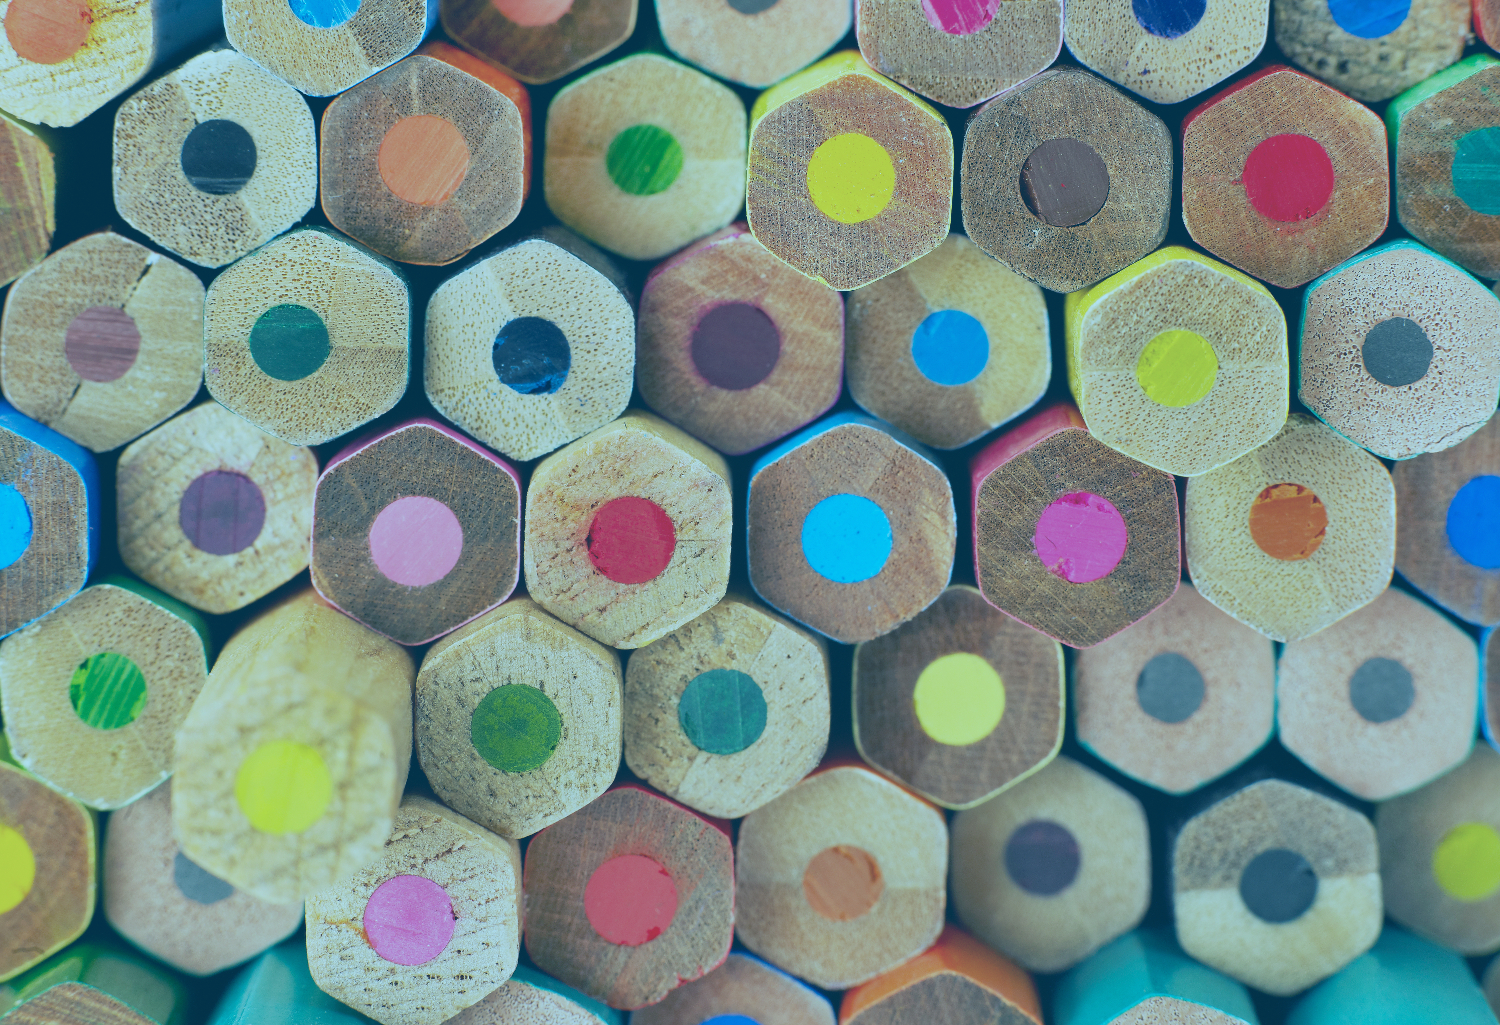
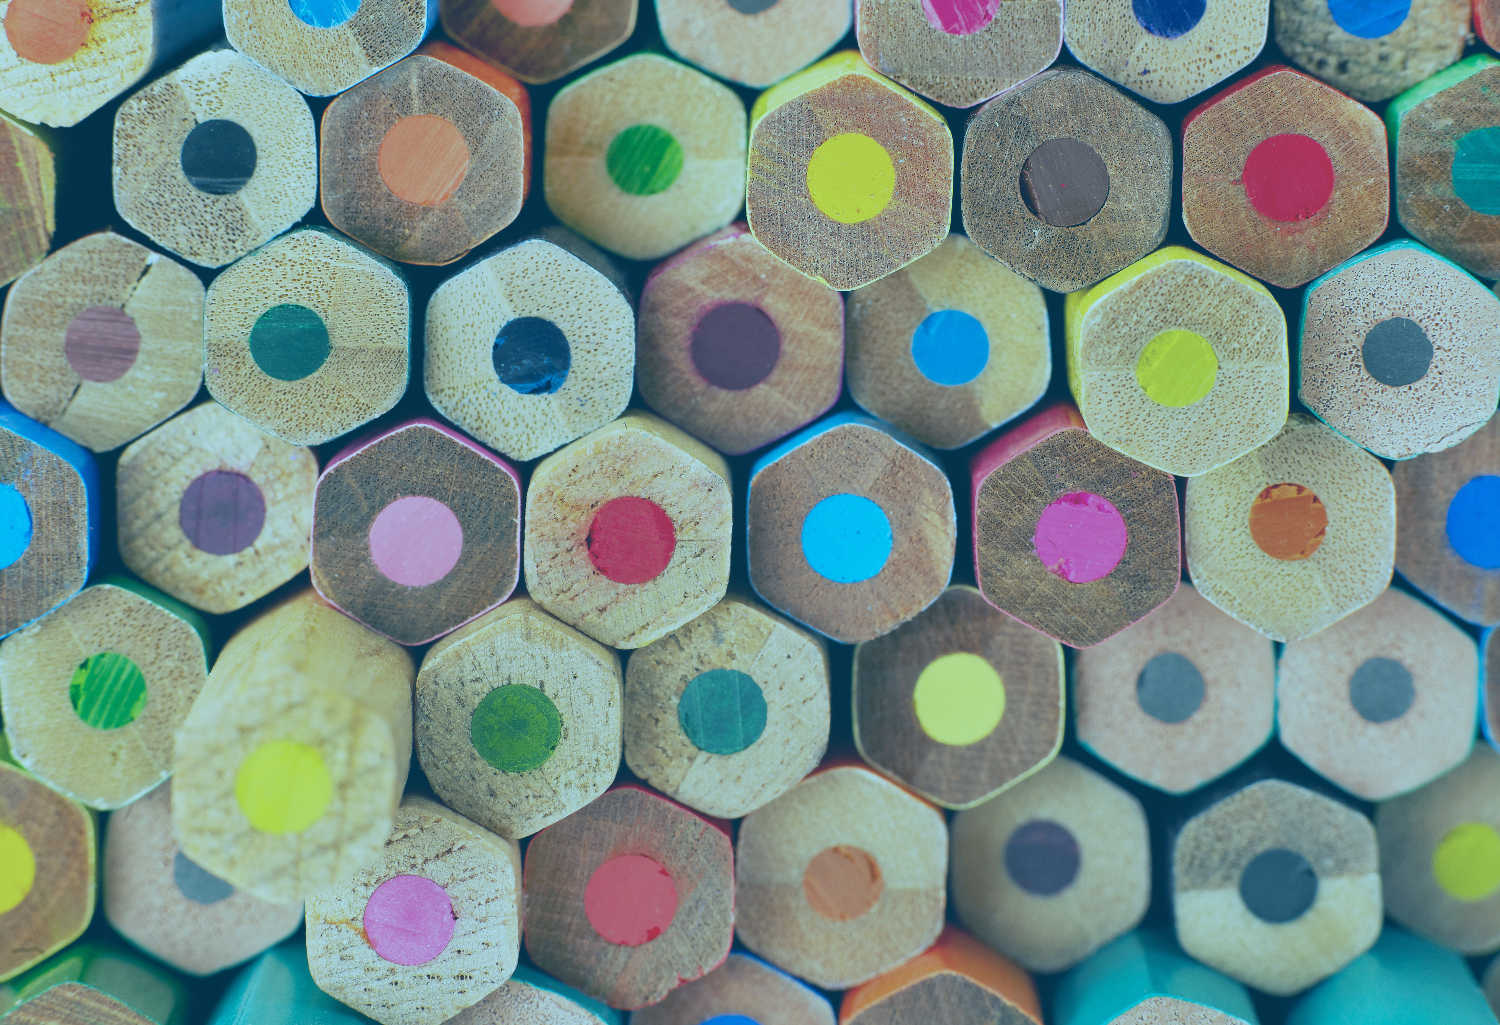
Added jpg low quality images

diff --git a/index.html b/index.html
@@ -1,7 +1,7 @@
 ---
 layout: default
 ---
-<section id="intro">
+<section class="intro">
   <div class="container">
     <div class="row">
       <div class="col md12 center">
@@ -64,7 +64,7 @@ layout: default
 
 <div class="parallax-middle">
   <div class="parallax">
-    <img id="parallax-end" class="home-parallax" src="{{ "/assets/colored-pencils.png" | prepend: site.baseurl }}" alt="">
+    <img id="parallax-end" class="home-parallax" src="{{ "/assets/colored-pencils.jpg" | prepend: site.baseurl }}" alt="">
   </div>
 </div>
 
@@ -138,7 +138,7 @@ layout: default
 
 <div class="parallax-middle">
   <div class="parallax">
-    <img id="" class="home-parallax" src="{{ "/assets/color-pencil-tip.png" | prepend: site.baseurl }}" alt="">
+    <img id="" class="home-parallax" src="{{ "/assets/color-pencil-tip.jpg" | prepend: site.baseurl }}" alt="">
   </div>
 </div>
 

diff --git a/css/materialize.css b/css/materialize.css
@@ -12693,8 +12693,8 @@ button.picker__today:focus, button.picker__clear:focus, button.picker__close:foc
 }
 
 /* line 14, ../_sass/_pencil.scss */
-#intro {
-  background: url("/assets/pencil-mobile.png") no-repeat center center fixed;
+.intro {
+  background: url("/assets/pencil-mobile-low.jpg") no-repeat center center fixed;
   height: 100vh;
   position: relative;
   background-size: cover;

diff --git a/_sass/_pencil.scss b/_sass/_pencil.scss
@@ -11,8 +11,8 @@
     padding-top: 0.4rem;
 }
 
-#intro {
-    background: url('/assets/pencil-mobile.png') no-repeat center center fixed;
+.intro {
+    background: url('/assets/pencil-mobile-low.jpg') no-repeat center center fixed;
     height: 100vh;
     position: relative;
     background-size: cover;
